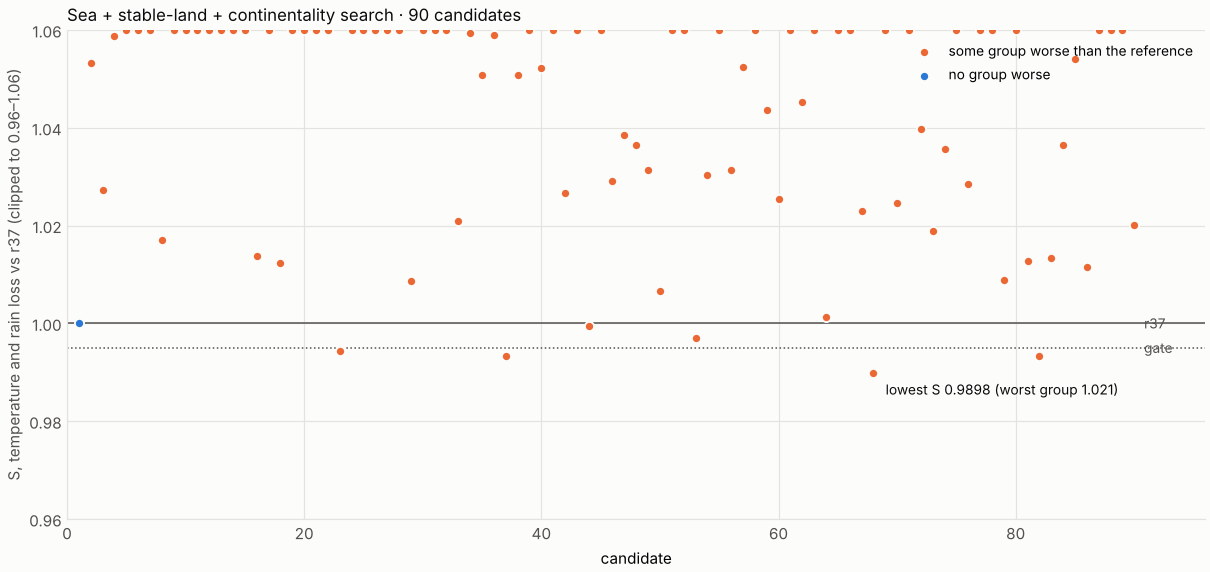
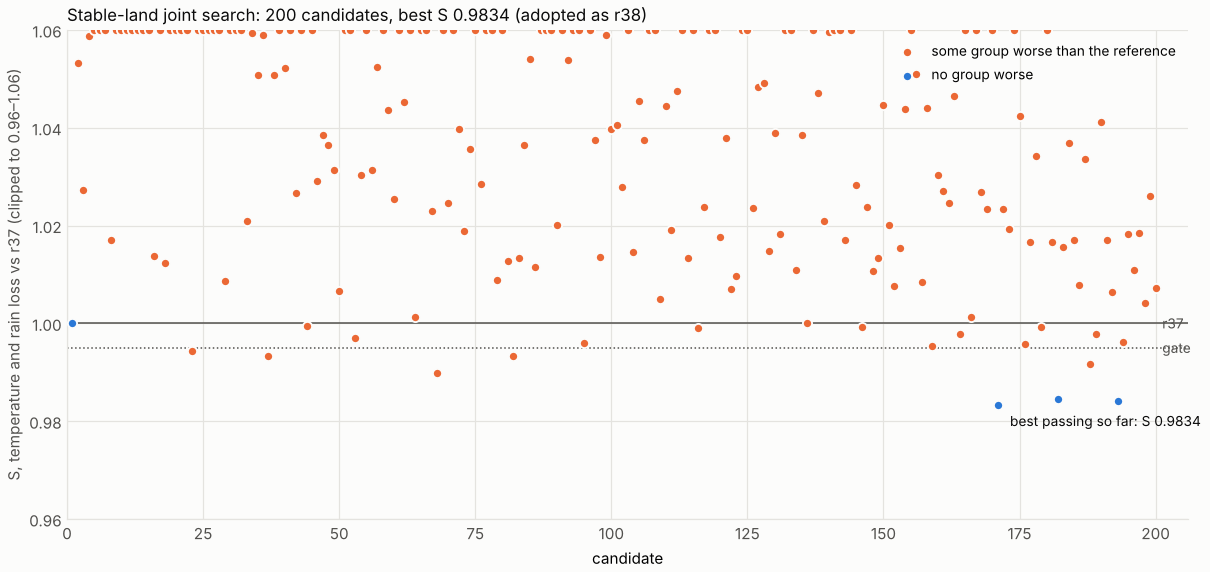
r38 report; search progress figure at 200 candidates
Claude-Session: https://claude.ai/code/session_01CjgxBcc5q1qAL72x4EhBR4

diff --git a/scripts/plot_search_progress.py b/scripts/plot_search_progress.py
@@ -54,12 +54,13 @@ def main():
         ax.annotate(f"best passing so far: S {S[best]:.4f}", (n[best], S[best]), xytext=(8, -14),
                     textcoords="offset points", fontsize=9, color=INK)
     lowest = int(np.argmin(S))
-    ax.annotate(f"lowest S {S[lowest]:.4f} (worst group {worst[lowest]:.3f})", (n[lowest], shown[lowest]),
-                xytext=(8, -14), textcoords="offset points", fontsize=9, color=INK)
+    if lowest != best:
+        ax.annotate(f"lowest S {S[lowest]:.4f} (worst group {worst[lowest]:.3f})", (n[lowest], shown[lowest]),
+                    xytext=(-8, -28), ha="right", textcoords="offset points", fontsize=9, color=INK)
     ax.set_ylim(*lim); ax.set_xlim(0, len(rows) + 6)
     ax.set_xlabel("candidate"); ax.set_ylabel("S, temperature and rain loss vs r37 (clipped to 0.96–1.06)",
                                                color=INK_SOFT)
-    ax.set_title(f"{a.title} · {len(rows)} candidates", loc="left", fontsize=11, color=INK)
+    ax.set_title(a.title if "candidates" in a.title else f"{a.title} · {len(rows)} candidates", loc="left", fontsize=11, color=INK)
     ax.legend(frameon=False, fontsize=9, loc="upper right")
     a.out.parent.mkdir(parents=True, exist_ok=True)
     fig.savefig(a.out, dpi=110, facecolor=SURFACE)

diff --git a/reports/STABLE_LAND_20261025.md b/reports/STABLE_LAND_20261025.md
@@ -1,0 +1,46 @@
+# r38: warmer winter seas, stable land air and the continental settings, searched together
+
+2026-10-25. Plan frozen before any result: `calibration/stable_land_20261025/plan.json`.
+Search: CMA-ES over 15 settings from r37 (`scripts/gate_calibrate.py`, 200 candidates, scored as
+the gate scores). Gate: `scripts/gate_stable_land.sh`; outputs in
+`output/stable_land_20261025/gate/`. Parameters: `calibration/local_accuracy_20261023/r38_params.json`.
+
+## Why
+
+The model's winter seas were 3–9 °C too cold (January: Black Sea −0.4 °C against 9, western
+Mediterranean 6.2 against 14.7, off Portugal 9.6 against 15.0), and the land and rain settings had
+been fitted around them. Warm sea air kept its warmth far inland because the land's winter coupling
+was the slow radiative one. r38 adds the stable-land coupling (air warmer than the ground cools
+toward it within days, e52) and deep winter mixing of the seas, and refits the sea, continental and
+rain settings together.
+
+## Search
+
+200 candidates; the best (candidate 171) scored 0.9834 with no group worse. The best by S alone
+earlier (0.9898) had failed the gate's group rule (holdout +2 %). Progress figure:
+`output/stable_land_20261025/progress.png`.
+
+## Gate (fresh r37 reference under the current source fingerprint)
+
+| check | r37 | r38 | S | result |
+|---|---|---|---|---|
+| 31 development regions, monthly T MAE | 1.841 °C | 1.796 °C | | |
+| 31 development regions, rain loss | 0.4569 | 0.4528 | | |
+| gate score (policy v2) | | | **0.9834** | pass; every group better (training 0.988, holdout 0.997, midlatitude 0.971, dev12 0.980) |
+| 28 km check (California, western Europe, Japan, New Zealand) | 1.986 °C / 0.4350 | 1.919 °C / 0.4364 | 0.9849 | pass (≤ 1.01) |
+| sealed six (Norway, SE Africa, Caucasus, Yunnan, NE US, Tasmania) | 2.037 °C / 0.5054 | 2.003 °C / 0.4888 | 0.9752 | better |
+
+Sealed six by region (T MAE r37 → r38): Norway 3.62 → 3.90 (worse), SE Africa 1.28 → 1.32, Caucasus
+2.57 → 2.27, Yunnan 1.48 → 1.48, NE US 1.85 → 1.58, Tasmania 1.43 → 1.47; rain loss better in SE
+Africa (0.70 → 0.62) and Yunnan (0.60 → 0.51), worse in Norway (0.52 → 0.56).
+
+City rain (3,667 cities): annual median error 29 % → 27 %, within 25 % of the observed annual total
+43.1 % → 46.7 %; closer at 1,907 cities, further at 1,305. North India's foothill towns stay the
+worst (model ~150–200 mm against 1,400–2,400).
+
+Sea surface against WOA18 (19 regions; reported, does not decide): monthly MAE 2.79 → 2.87 °C. The
+search bought land accuracy with a slightly worse sea; the winter-sea bias it set out to fix was
+traded against the continental settings rather than removed.
+
+**Adopted as r38.** The Earth-fit atlas is being refitted on it (world settings only,
+`calibration/map_world_r38`).
